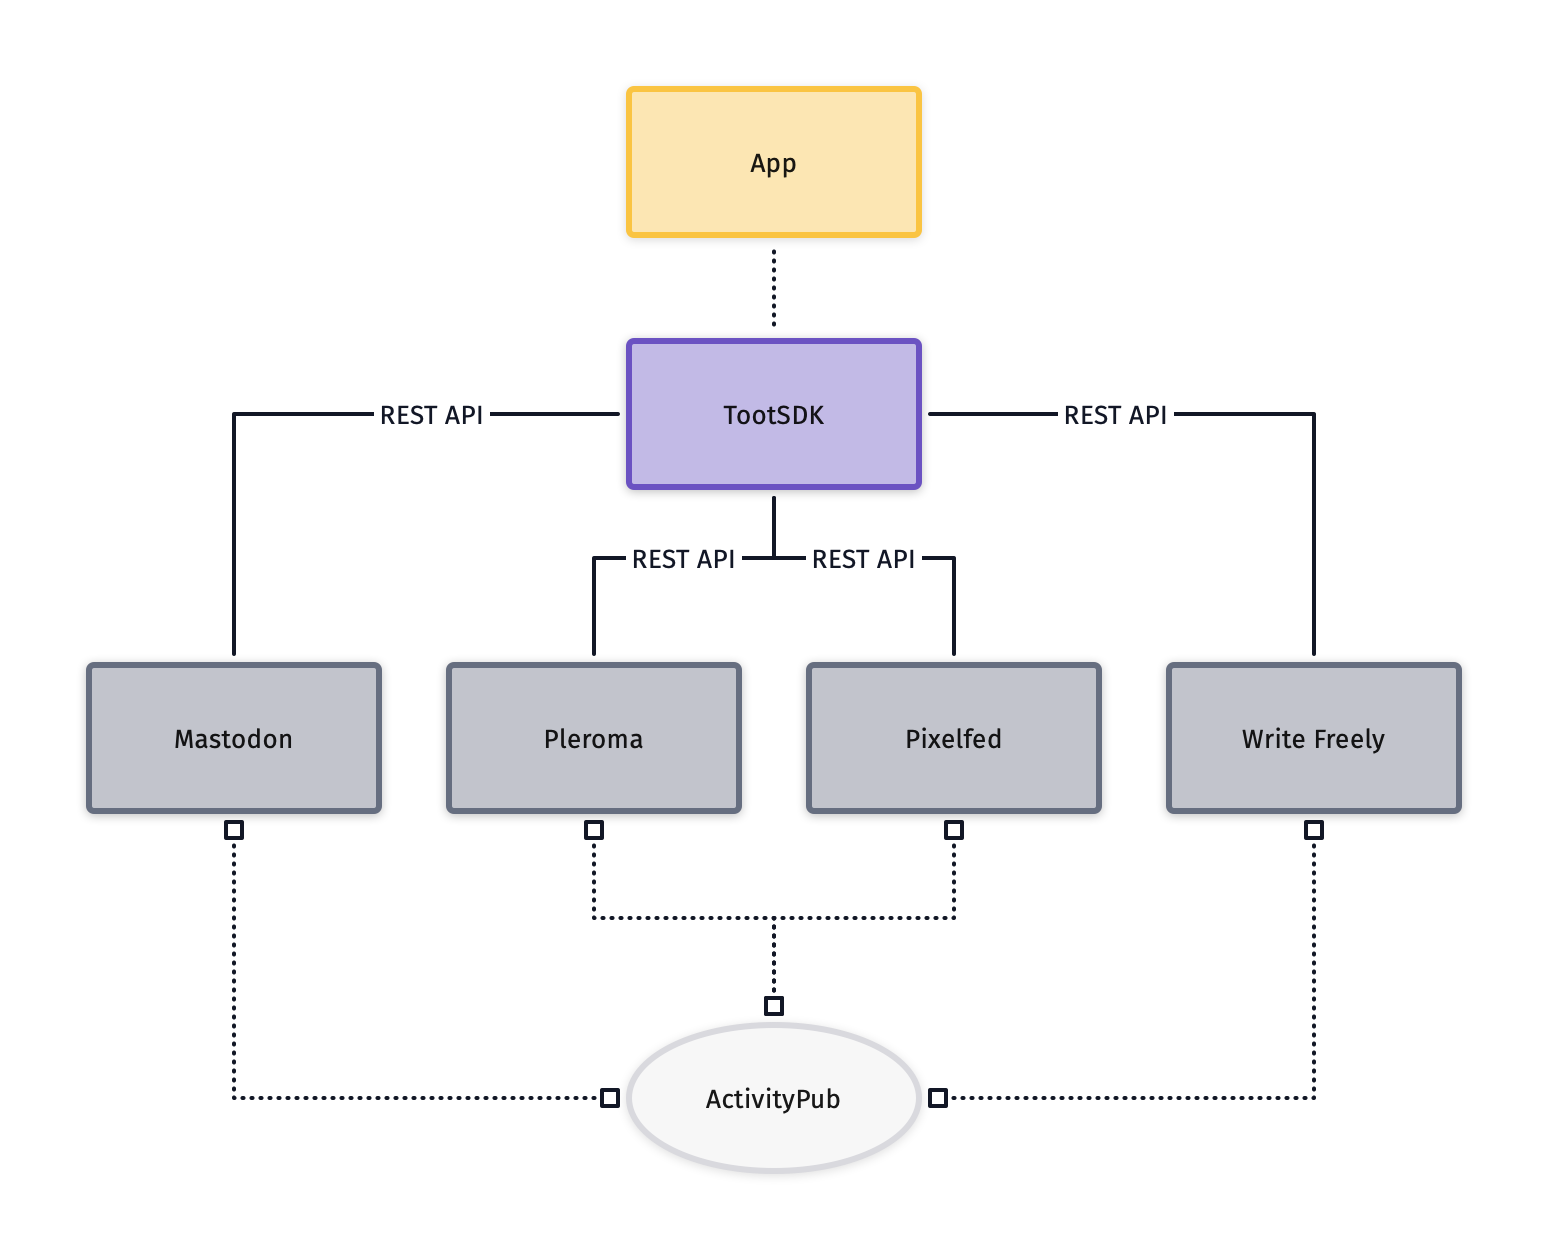
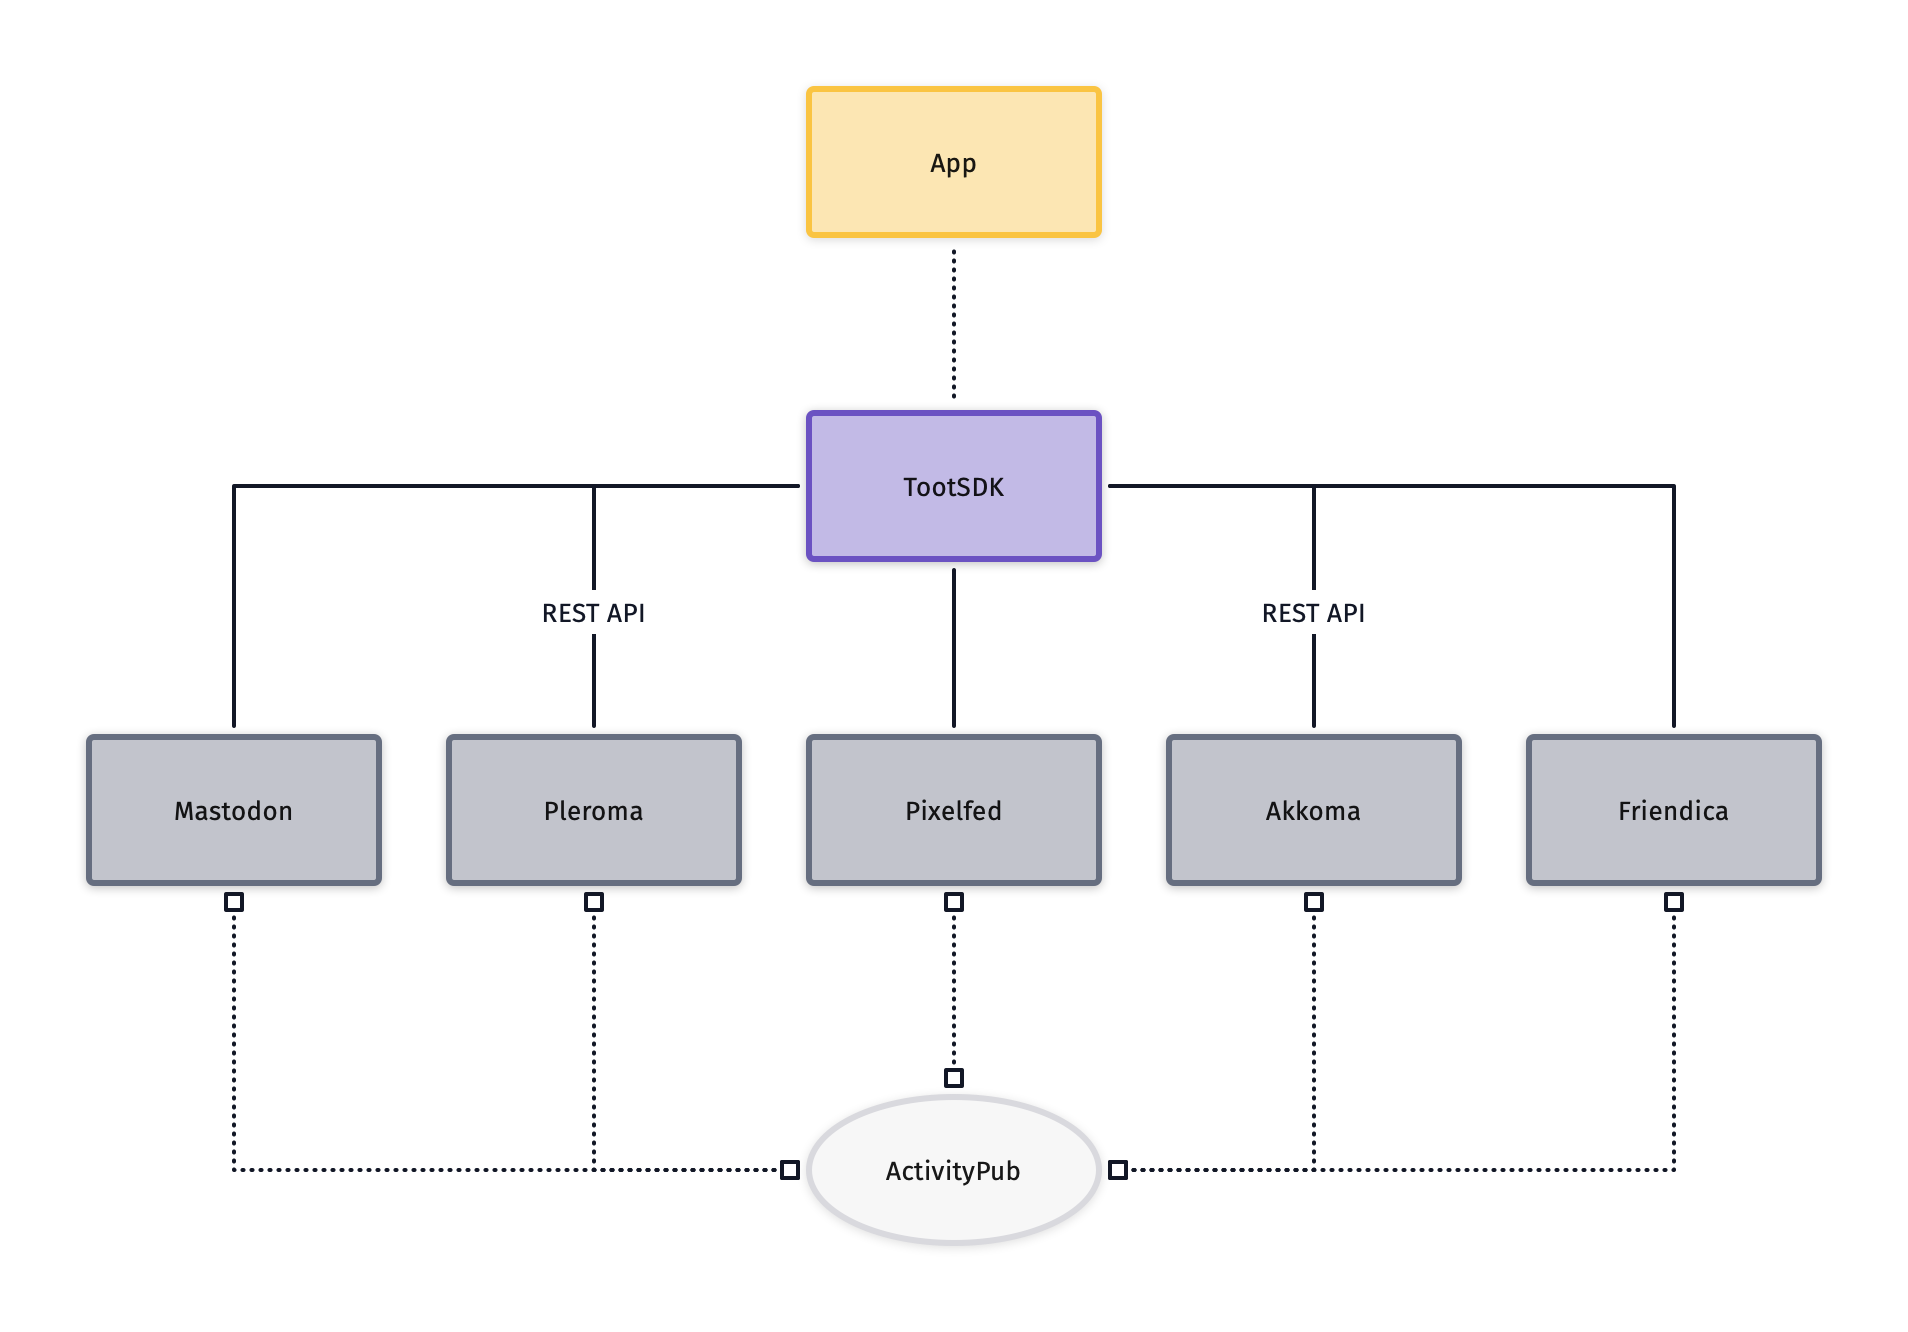
docs: update readme and overview to add akkoma and friendica

diff --git a/README.md b/README.md
@@ -36,9 +36,11 @@ TootSDK is a shared Swift Package that any client app can be built on.
 
 ## Project Status 📈
 
-- Mastodon - In progress
-- Pleroma - In progress
-- Pixelfed - To do
+- Mastodon - Nearly there
+- Pleroma - Nearly there
+- Pixelfed - Nearly there
+- Friendica - Nearly there 
+- Akkoma - Nearly there
 - Writefreely - To do
 
 Our [roadmap](ROADMAP.md) shows where we want to take TootSDK. Our [project board](https://github.com/orgs/TootSDK/projects/1) shows our current backlog of work, and what is in flight.
